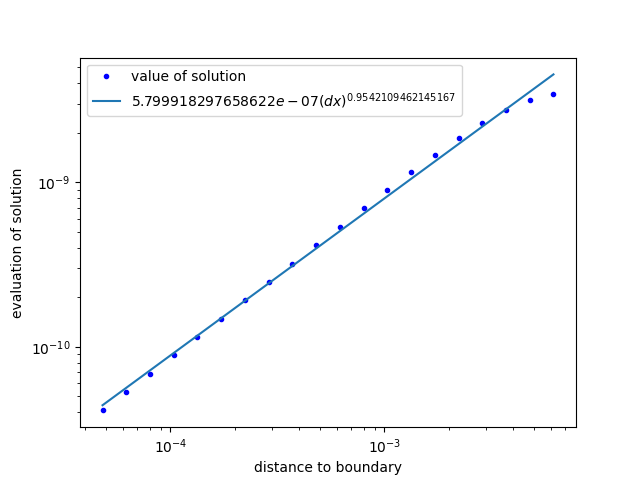
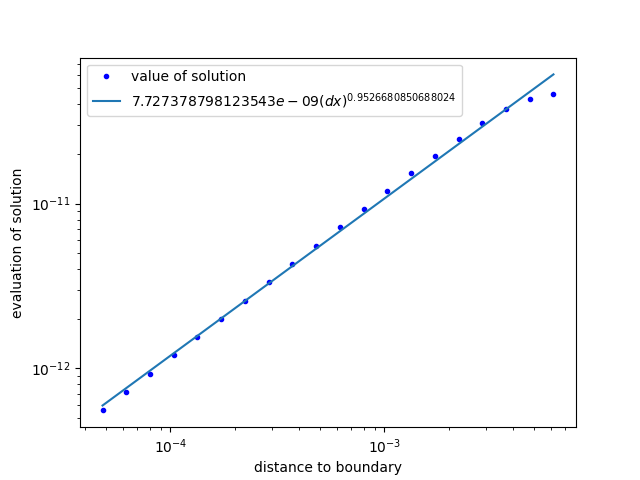
update

diff --git a/Ex3_square_harmonic_adaptive/test_reg.py b/Ex3_square_harmonic_adaptive/test_reg.py
@@ -3,7 +3,8 @@ d_ins = np.linspace(0,7,20)
 n=4
 dy_list=[0.5*(1/3.)**n*(1/2.)**i for i in d_ins]
 dy_list_log=np.log(dy_list)
-uu=[3.42420472e-09,3.16283084e-09,2.74764362e-09,2.28700225e-09,1.84903288e-09,1.46678403e-09,1.14974975e-09, 8.94808225e-10, 6.93578838e-10, 5.36472549e-10,4.1456686e-10,3.20279116e-10, 2.47459943e-10,1.91247929e-10, 1.47853037e-10, 1.14342066e-10, 8.84529169e-11, 6.84434051e-11, 5.29720036e-11,4.10052676e-11]
+#uu=[3.42420472e-09,3.16283084e-09,2.74764362e-09,2.28700225e-09,1.84903288e-09,1.46678403e-09,1.14974975e-09, 8.94808225e-10, 6.93578838e-10, 5.36472549e-10,4.1456686e-10,3.20279116e-10, 2.47459943e-10,1.91247929e-10, 1.47853037e-10, 1.14342066e-10, 8.84529169e-11, 6.84434051e-11, 5.29720036e-11,4.10052676e-11]
+uu=[4.6098275e-11, 4.33023083e-11, 3.73845945e-11, 3.0816977e-11, 2.47372375e-11, 1.95507814e-11, 1.53116436e-11, 1.1928404e-11, 9.26474635e-12,7.18390607e-12, 5.56552433e-12,4.30989144e-12,3.33695971e-12,2.58355996e-12, 2.0003143e-12, 1.54882629e-12, 1.19932177e-12, 9.28744959e-13,7.19253743e-13, 5.57043542e-13]
 uu_log=np.log(uu)
 alpha,b,std=std_linreg(dy_list_log, uu_log) 
 c=exp(b)
